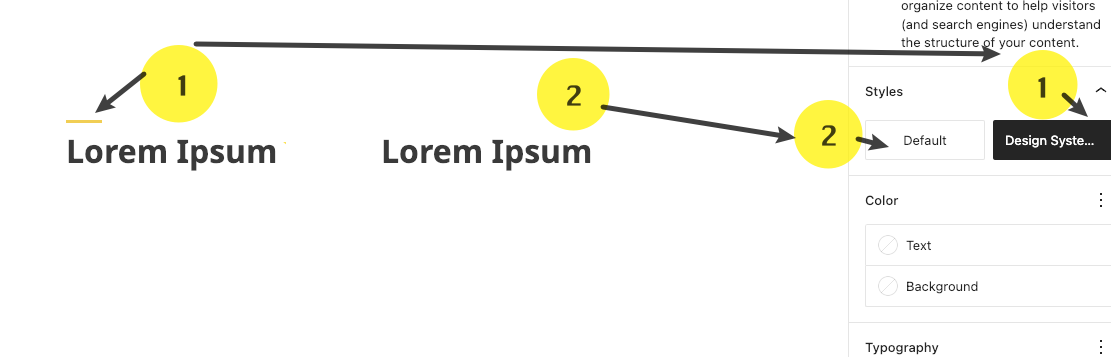
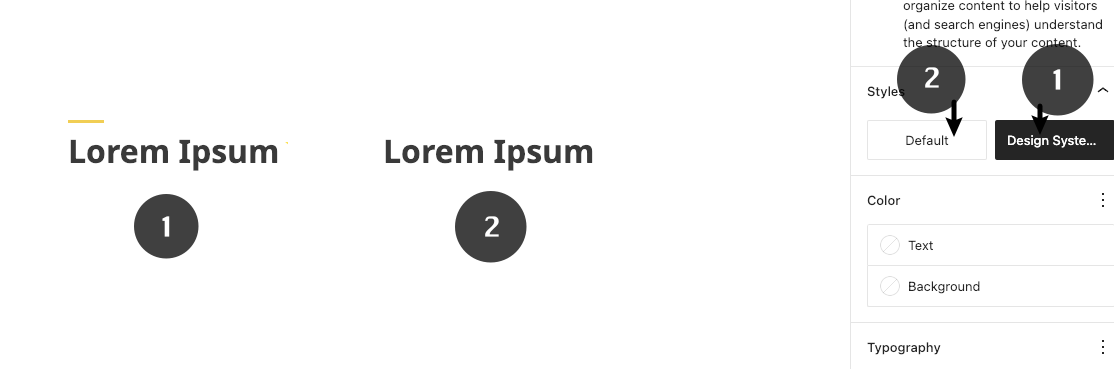
Added images and docs for DWSPDefaultheadin pattern.  Updated config and versions of vuepress

diff --git a/documentation/docs/guide/SiteEditor/Patterns/DSWPDefaultHeading.md b/documentation/docs/guide/SiteEditor/Patterns/DSWPDefaultHeading.md
@@ -1,41 +1,29 @@
 # DSWP Default Heading
 
 ## Overview
-This pattern provides a standardized heading block with consistent spacing and styling to work with the Design System.  It is recommended to use the pattern instead of the default WordPress Heading block.
+This pattern provides a standardized heading block with carefully defined spacing that aligns with the WordPress Design System. The heading block features a style variation that lets you choose between two appearances: the **BC Government's visual style (1)** or the **default WordPress style (2)**. For consistency and proper design integration, it is recommended to use this pattern instead of the default WordPress Heading block.
  
 ::: warning Important Note
 Each pattern consists of several blocks. Only adjust the content and color block settings. The structural settings (padding and margins) are pre-configured for responsiveness. Modifying structural settings may break the pattern.
 :::
- 
-## Style Variations
-This pattern utilizes the WordPress Heading block and includes carefully defined spacing that aligns with the WordPress design system. The heading block features a style variation that lets you choose between two appearances: the default WordPress style or the BC Government's visual style.
-
-The pattern consists of the following blocks:
-1. **Heading Block** - Main title with callout styling
 
 ## Pattern Components
 ![Pattern Components](/images/patterns/dswp-default-heading/a.png)
  
 ## Common Tasks
- 
-### Adding the Pattern
-1. Click the plus button to add a new block
-2. Select "All" from the block menu
-3. Choose "dswp-default-heading" pattern
- 
-### Customizing Elements
+
 #### Modifying the Heading Text:
 1. Click on the heading text
 2. Type your new heading
 3. The styling will automatically apply
- 
-#### Adjusting Heading Level:
+![Edit Heading Text](/images/patterns/dswp-default-heading/b.gif)
+
+#### Changing Variation:
 1. Select the heading block
-2. Click the block toolbar's heading level dropdown
-3. Choose H1-H6 as needed
-<!-- ![Heading level selection](/images/patterns/dswp-default-heading/heading-level.png) -->
+2. Click the block settings
+3. Choose between the two options
+![Heading Variations](/images/patterns/dswp-default-heading/c.gif)
  
 ## Block Documentation
 For detailed instructions on modifying specific blocks, refer to WordPress's official documentation:
 - [Heading Block](https://wordpress.com/support/wordpress-editor/blocks/heading-block/)
-- [Group Block](https://wordpress.com/support/wordpress-editor/blocks/group-block/)
